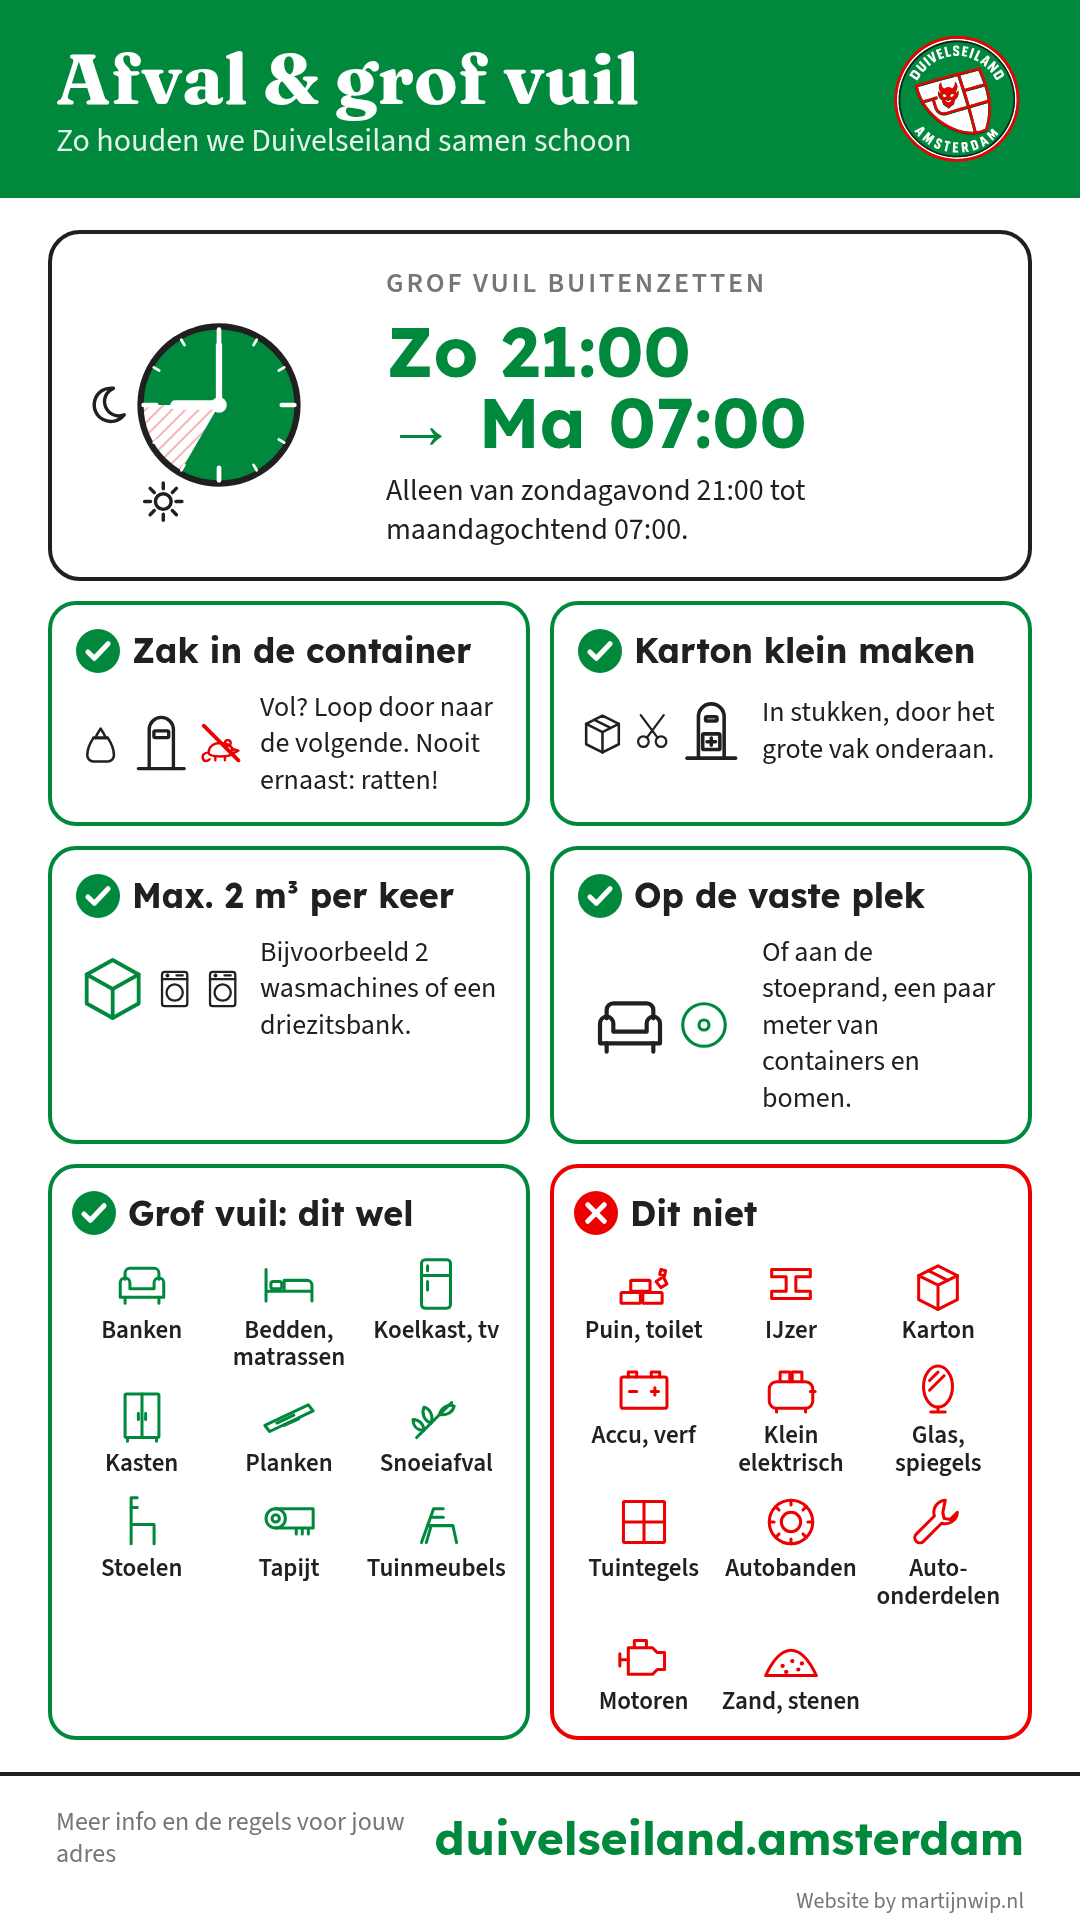
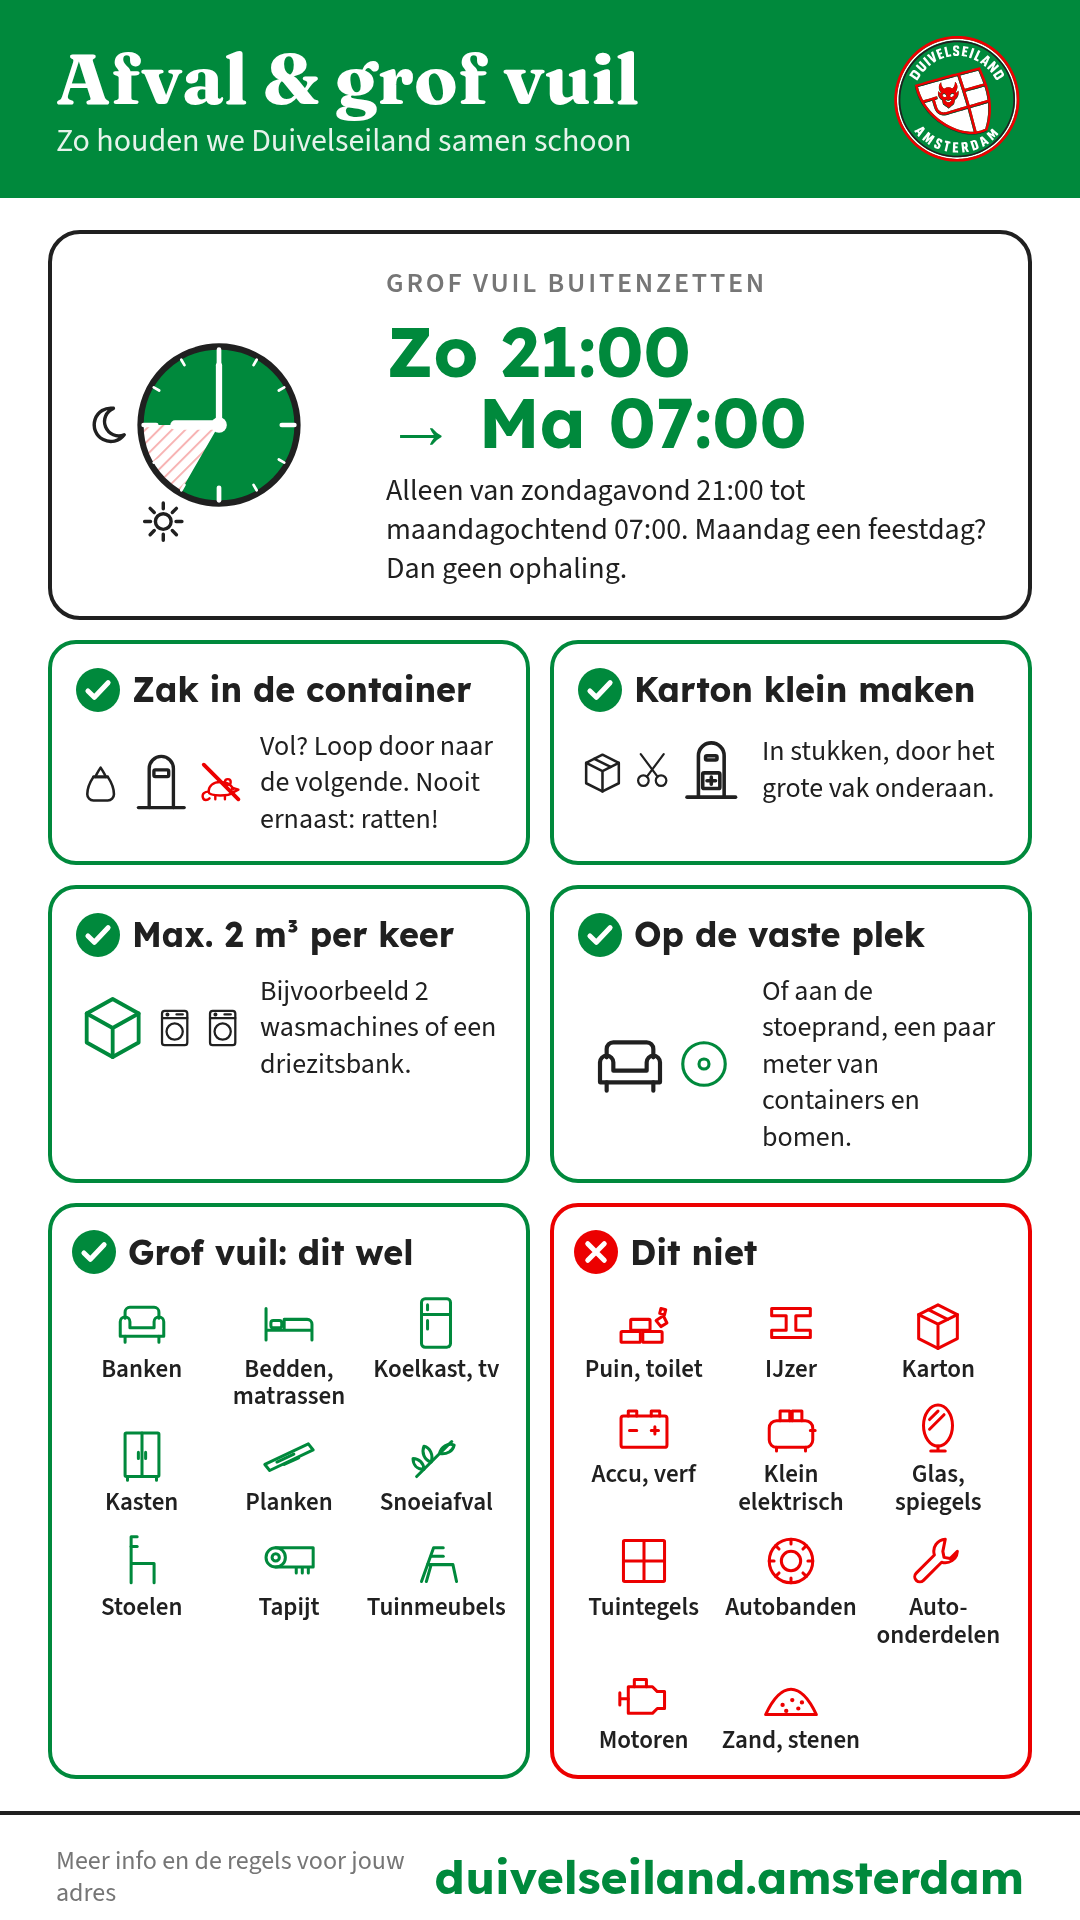
Praktische info, briefje en afvalkaart bijgewerkt
- Voorzieningen: OBA Roelof Hartplein en Buurthuis Lydia erbij, met
  eigen pictogrammen; op brede schermen drie kaarten naast elkaar.
- Parkeren: bezoek kan de bezoeker ook zelf aanmelden; gratis ook zonder
  eigen parkeervergunning.
- Briefje voor de buren: vrij tekstveld, komt boven de afsluiting.
- Afvalkaart: grof vuil als eerste blok, en dat er op een maandag die
  op een feestdag valt geen grof vuil wordt opgehaald (ook in de
  deelafbeeldingen).

diff --git a/src/components/afval/instructie/InstructieKaart.tsx b/src/components/afval/instructie/InstructieKaart.tsx
@@ -142,39 +142,7 @@ export async function InstructieKaart({ locale }: { locale: string }) {
         </header>
 
         <div className="grid md:grid-cols-2 print:grid-cols-2">
-          <Panel n={1} title={t('rest.title')}>
-            <div className="grid gap-3 sm:grid-cols-2 print:grid-cols-2">
-              <Scene ok title={t('rest.ok')} caption={t('rest.okCaption')}>
-                <Icon name="zak" className="size-13" />
-                <Arrow />
-                <Icon name="container" className="size-14" />
-              </Scene>
-              <Scene ok={false} title={t('rest.no')} caption={t('rest.noCaption')}>
-                <Icon name="container" className="size-14" />
-                <Icon name="zak" className="size-10" />
-                <Icon name="rat" className="size-13 text-accent" />
-              </Scene>
-            </div>
-          </Panel>
-
-          <Panel n={2} title={t('karton.title')}>
-            <div className="grid gap-3 sm:grid-cols-2 print:grid-cols-2">
-              <Scene ok title={t('karton.ok')} caption={t('karton.okCaption')}>
-                <Icon name="doos" className="size-10" />
-                <Arrow />
-                <Icon name="papiercontainer" className="size-14" />
-              </Scene>
-              <Scene ok title={t('karton.big')} caption={t('karton.bigCaption')}>
-                <Icon name="doos" className="size-10" />
-                <Icon name="mes" className="size-9" />
-                <Icon name="stukken" className="size-9" />
-                <Arrow />
-                <Icon name="papiercontainer" className="size-14" />
-              </Scene>
-            </div>
-          </Panel>
-
-          <Panel n={3} title={t('grof.title')} wide>
+          <Panel n={1} title={t('grof.title')} wide>
             <div className="grid items-start gap-5 lg:grid-cols-[minmax(0,1.35fr)_minmax(0,1fr)] print:grid-cols-[minmax(0,1.35fr)_minmax(0,1fr)]">
               <div className="flex flex-col gap-2">
                 <h3 className="m-0 text-[13px] font-semibold tracking-[0.1em] text-muted uppercase">{t('grof.when.label')}</h3>
@@ -193,6 +161,10 @@ export async function InstructieKaart({ locale }: { locale: string }) {
                   }}
                 />
                 <p className="m-0 text-[15px] leading-[1.45] text-text print:text-[13px]">{t('grof.when.text')}</p>
+                <p className="m-0 flex items-start gap-2 rounded-md border-2 border-accent bg-background p-2.5 text-[15px] leading-[1.4] font-semibold text-text print:text-[13px]">
+                  <Mark ok={false} />
+                  {t('grof.when.feestdag')}
+                </p>
               </div>
               <div className="flex flex-col gap-2">
                 <h3 className="m-0 text-[13px] font-semibold tracking-[0.1em] text-muted uppercase">{t('grof.how.label')}</h3>
@@ -219,6 +191,38 @@ export async function InstructieKaart({ locale }: { locale: string }) {
                 <p className="m-0 text-[15px] leading-[1.45] text-text print:text-[13px]">{t('grof.where.text')}</p>
               </div>
               <WaarScene label={t('grof.where.label') + ': ' + t('grof.where.text')} plek={t('grof.where.plek')} afstand={t('grof.where.afstand')} />
+            </div>
+          </Panel>
+
+          <Panel n={2} title={t('rest.title')}>
+            <div className="grid gap-3 sm:grid-cols-2 print:grid-cols-2">
+              <Scene ok title={t('rest.ok')} caption={t('rest.okCaption')}>
+                <Icon name="zak" className="size-13" />
+                <Arrow />
+                <Icon name="container" className="size-14" />
+              </Scene>
+              <Scene ok={false} title={t('rest.no')} caption={t('rest.noCaption')}>
+                <Icon name="container" className="size-14" />
+                <Icon name="zak" className="size-10" />
+                <Icon name="rat" className="size-13 text-accent" />
+              </Scene>
+            </div>
+          </Panel>
+
+          <Panel n={3} title={t('karton.title')}>
+            <div className="grid gap-3 sm:grid-cols-2 print:grid-cols-2">
+              <Scene ok title={t('karton.ok')} caption={t('karton.okCaption')}>
+                <Icon name="doos" className="size-10" />
+                <Arrow />
+                <Icon name="papiercontainer" className="size-14" />
+              </Scene>
+              <Scene ok title={t('karton.big')} caption={t('karton.bigCaption')}>
+                <Icon name="doos" className="size-10" />
+                <Icon name="mes" className="size-9" />
+                <Icon name="stukken" className="size-9" />
+                <Arrow />
+                <Icon name="papiercontainer" className="size-14" />
+              </Scene>
             </div>
           </Panel>
 

diff --git a/src/components/geluid/briefje/Briefje.tsx b/src/components/geluid/briefje/Briefje.tsx
@@ -45,6 +45,8 @@ const LEEG = {
   tot: '01:00',
   stil: hh(FEEST_ZACHTER_VANAF),
   welkom: false,
+  // beide
+  extra: '',
 };
 type Velden = typeof LEEG;
 
@@ -122,6 +124,7 @@ function Brief({ soort, taal, v, tekst, leeg }: { soort: Soort; taal: 'nl' | 'en
           {p}
         </p>
       ))}
+      {v.extra.trim() && <p className="m-0 whitespace-pre-line">{v.extra.trim()}</p>}
       <p className="m-0">{b.slot}</p>
       <p className="m-0">
         {b.groet}
@@ -249,6 +252,23 @@ export function Briefje({ locale, labels, teksten }: { locale: string; labels: B
             </label>
           </div>
         )}
+
+        <div className="flex flex-col gap-1.5 border-t border-border pt-5">
+          <Veld label={l.extra}>
+            <textarea
+              name="extra"
+              value={v.extra}
+              onChange={zet('extra')}
+              rows={4}
+              placeholder={l.extraPlaceholder}
+              aria-describedby={`${id}-extra`}
+              className={`${inputCls} py-2 leading-[1.45]`}
+            />
+          </Veld>
+          <p id={`${id}-extra`} className="m-0 text-sm leading-[1.45] text-muted">
+            {l.extraHint}
+          </p>
+        </div>
 
         <p id={`${id}-privacy`} className="m-0 border-t border-border pt-4 text-sm leading-[1.45] text-muted">
           {labels.privacy}

diff --git a/src/components/praktische-info/PraktischeInfoPage.tsx b/src/components/praktische-info/PraktischeInfoPage.tsx
@@ -19,6 +19,8 @@ const AED_KAARTEN = [
 
 const IN_DE_BUURT = [
   { key: 'kerk', icon: 'kerk', url: 'https://amsterdam.oudkatholiek.nl/' },
+  { key: 'bibliotheek', icon: 'boek', url: 'https://oba.nl/nl/locaties/oba-roelof-hartplein' },
+  { key: 'lydia', icon: 'buurthuis', url: 'https://buurthuislydia.nl/' },
 ] as const satisfies readonly { key: string; icon: PraktischeInfoIconName; url: string }[];
 
 const PARKEER_SOORTEN = ['laadpaal', 'laden-lossen', 'deelauto', 'gehandicapt'] as const;
@@ -144,7 +146,7 @@ export async function PraktischeInfoPage({ locale }: { locale: 'nl' | 'en' }) {
           title={t('inDeBuurt.title')}
           intro={t('inDeBuurt.intro')}
         />
-        <ul className="mt-8 grid list-none gap-4 p-0 md:grid-cols-2">
+        <ul className="mt-8 grid list-none gap-4 p-0 md:grid-cols-2 lg:grid-cols-3">
           {IN_DE_BUURT.map(({ key, icon, url }) => (
             <li key={key} className={boxCls}>
               <div className="flex items-start gap-4">

diff --git a/src/components/praktische-info/icons.tsx b/src/components/praktische-info/icons.tsx
@@ -79,6 +79,21 @@ const ICONS = {
       <path d="M20 42v-8a4 4 0 0 1 8 0v8" />
     </>
   ),
+  boek: (
+    <>
+      <path d="M24 13c-4-3-10-4-17-4v28c7 0 13 1 17 4 4-3 10-4 17-4V9c-7 0-13 1-17 4z" />
+      <path d="M24 13v28" />
+    </>
+  ),
+  buurthuis: (
+    <>
+      <path d="M6 22L24 8l18 14" />
+      <path d="M11 18v24h26V18" />
+      <circle cx="19" cy="27" r="3" />
+      <circle cx="29" cy="27" r="3" />
+      <path d="M14 42v-4a5 5 0 0 1 10 0M24 38a5 5 0 0 1 10 0v4" />
+    </>
+  ),
 } as const;
 
 export type PraktischeInfoIconName = keyof typeof ICONS;
